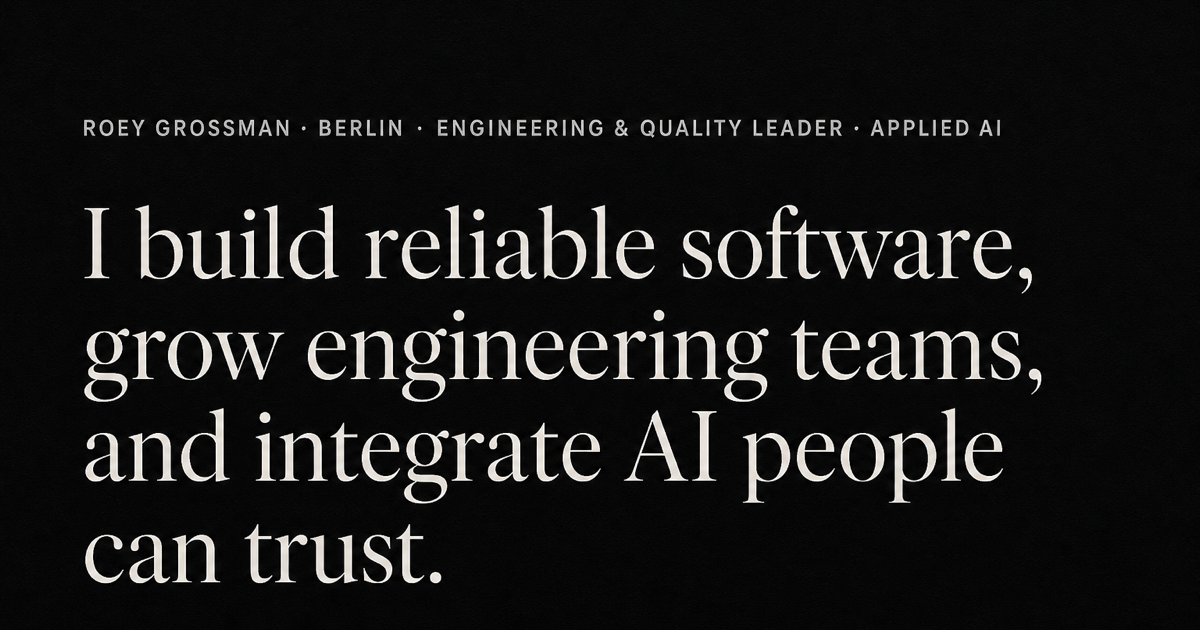
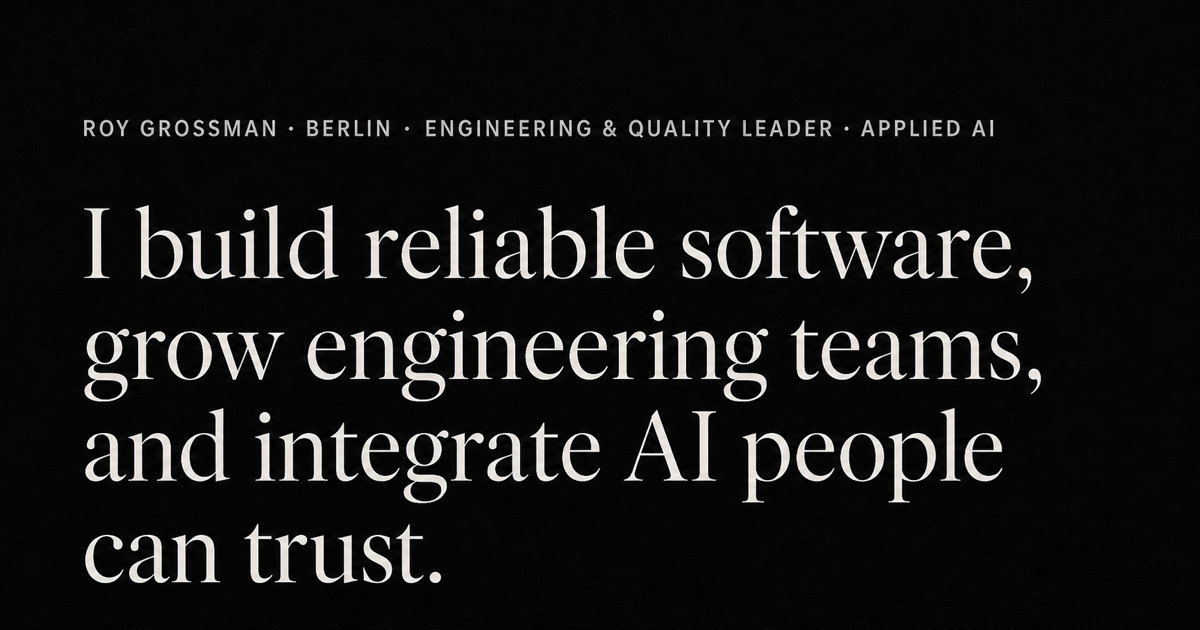
change: update legal name
- change to the legal name
- add personal email

diff --git a/src/Modals.jsx b/src/Modals.jsx
@@ -17,14 +17,14 @@ export default function Modals({ activeModal, setActiveModal, language }) {
                         language === 'en' ? (
                             <>
                                 <p><strong className="text-zinc-900 dark:text-zinc-50">Information according to § 5 DDG</strong></p>
-                                <p>{contactInfo.name}<br/>{contactInfo.street}<br/>{contactInfo.zipCity}<br/>Germany</p>
+                                <p>{contactInfo.legalName}<br/>{contactInfo.street}<br/>{contactInfo.zipCity}<br/>Germany</p>
                                 <p><strong className="text-zinc-900 dark:text-zinc-50">Contact</strong></p>
                                 <p>Phone: {contactInfo.phone}<br/>Email: {contactInfo.email}</p>
                             </>
                         ) : (
                             <>
                                 <p><strong className="text-zinc-900 dark:text-zinc-50">Angaben gemäß § 5 DDG</strong></p>
-                                <p>{contactInfo.name}<br/>{contactInfo.street}<br/>{contactInfo.zipCity}<br/>Deutschland</p>
+                                <p>{contactInfo.legalName}<br/>{contactInfo.street}<br/>{contactInfo.zipCity}<br/>Deutschland</p>
                                 <p><strong className="text-zinc-900 dark:text-zinc-50">Kontakt</strong></p>
                                 <p>Telefon: {contactInfo.phone}<br/>E-Mail: {contactInfo.email}</p>
                             </>
@@ -35,7 +35,7 @@ export default function Modals({ activeModal, setActiveModal, language }) {
                                 <h3 className="font-medium text-lg mt-6 mb-2 text-zinc-900 dark:text-zinc-50">1. Privacy at a Glance</h3>
                                 <p>This website does not collect any personal data through trackers, analytics tools, or cookies. It is purely for the provision of information.</p>
                                 <h3 className="font-medium text-lg mt-6 mb-2 text-zinc-900 dark:text-zinc-50">2. Data Controller</h3>
-                                <p>{contactInfo.name}<br/>{contactInfo.street}<br/>{contactInfo.zipCity}<br/>{contactInfo.email}</p>
+                                <p>{contactInfo.legalName}<br/>{contactInfo.street}<br/>{contactInfo.zipCity}<br/>{contactInfo.email}</p>
                                 <h3 className="font-medium text-lg mt-6 mb-2 text-zinc-900 dark:text-zinc-50">3. Website Provision and Hosting</h3>
                                 <p>We host our website on Cloudflare Pages. The provider is Cloudflare, Inc., 101 Townsend St, San Francisco, CA 94107, USA (hereinafter: Cloudflare).</p>
                                 <p>When you visit our website, Cloudflare automatically logs server-side connection data as our hosting provider. This is technically necessary to deliver the website and guarantee its security.</p>
@@ -45,7 +45,7 @@ export default function Modals({ activeModal, setActiveModal, language }) {
                                 <h3 className="font-medium text-lg mt-6 mb-2 text-zinc-900 dark:text-zinc-50">1. Datenschutz auf einen Blick</h3>
                                 <p>Diese Website erfasst keine personenbezogenen Daten durch Tracker, Analyse-Tools oder Cookies. Sie dient rein der Informationsbereitstellung.</p>
                                 <h3 className="font-medium text-lg mt-6 mb-2 text-zinc-900 dark:text-zinc-50">2. Verantwortliche Stelle</h3>
-                                <p>{contactInfo.name}<br/>{contactInfo.street}<br/>{contactInfo.zipCity}<br/>{contactInfo.email}</p>
+                                <p>{contactInfo.legalName}<br/>{contactInfo.street}<br/>{contactInfo.zipCity}<br/>{contactInfo.email}</p>
                                 <h3 className="font-medium text-lg mt-6 mb-2 text-zinc-900 dark:text-zinc-50">3. Bereitstellung der Website und Hosting</h3>
                                 <p>Wir hosten unsere Website bei Cloudflare Pages. Anbieter ist die Cloudflare, Inc. Wenn Sie unsere Website besuchen, erfasst Cloudflare als unser Hostinganbieter serverseitig Verbindungsdaten.</p>
                             </>

diff --git a/index.html b/index.html
@@ -5,25 +5,25 @@
     <link rel="icon" type="image/svg+xml" href="/favicon.svg" />
     <meta name="viewport" content="width=device-width, initial-scale=1.0" />
     <meta name="robots" content="index, follow" />
-    <meta name="author" content="Roey Grossman" />
+    <meta name="author" content="Roy Grossman" />
     <link rel="canonical" href="https://grossman.engineering/" />
 
     <!-- Primary Meta Tags -->
-    <title>Roey Grossman | Engineering &amp; Quality Leader · Applied AI</title>
-    <meta name="title" content="Roey Grossman | Engineering &amp; Quality Leader · Applied AI" />
+    <title>Roy Grossman | Engineering &amp; Quality Leader · Applied AI</title>
+    <meta name="title" content="Roy Grossman | Engineering &amp; Quality Leader · Applied AI" />
     <meta name="description" content="Engineering and quality leader with 15+ years across software delivery, automation, and people leadership, now applying production discipline to AI." />
 
     <!-- Open Graph / Facebook / LinkedIn -->
     <meta property="og:type" content="website" />
     <meta property="og:url" content="https://grossman.engineering/" />
-    <meta property="og:title" content="Roey Grossman | Engineering &amp; Quality Leader · Applied AI" />
+    <meta property="og:title" content="Roy Grossman | Engineering &amp; Quality Leader · Applied AI" />
     <meta property="og:description" content="Engineering and quality leader with 15+ years across software delivery, automation, and people leadership, now applying production discipline to AI." />
     <meta property="og:image" content="https://grossman.engineering/og-image.png" />
 
     <!-- Twitter -->
     <meta name="twitter:card" content="summary_large_image" />
     <meta name="twitter:url" content="https://grossman.engineering/" />
-    <meta name="twitter:title" content="Roey Grossman | Engineering &amp; Quality Leader · Applied AI" />
+    <meta name="twitter:title" content="Roy Grossman | Engineering &amp; Quality Leader · Applied AI" />
     <meta name="twitter:description" content="Engineering and quality leader with 15+ years across software delivery, automation, and people leadership, now applying production discipline to AI." />
     <meta name="twitter:image" content="https://grossman.engineering/og-image.png" />
 
@@ -32,7 +32,7 @@
     {
       "@context": "https://schema.org",
       "@type": "Person",
-      "name": "Roey Grossman",
+      "name": "Roy Grossman",
       "jobTitle": "Engineering and Quality Leader",
       "url": "https://grossman.engineering/",
       "sameAs": [

diff --git a/src/App.jsx b/src/App.jsx
@@ -76,31 +76,31 @@ export default function App() {
 
     // SEO: Dynamic Title, Meta Description & Canonical URL
     useEffect(() => {
-        let title = 'Roey Grossman | Engineering & Quality Leader · Applied AI';
+        let title = 'Roy Grossman | Engineering & Quality Leader · Applied AI';
         let desc = 'Engineering and quality leader with 15+ years across software delivery, automation, and people leadership, now applying production discipline to AI.';
         let ogType = 'website';
         
         if (language === 'de') {
-            title = 'Roey Grossman | Engineering & Quality Leader · Applied AI';
+            title = 'Roy Grossman | Engineering & Quality Leader · Applied AI';
             desc = 'Engineering- und Quality-Leader mit mehr als 15 Jahren Erfahrung in Softwareentwicklung, Automatisierung und Personalführung – heute mit Fokus auf Applied AI.';
         }
 
         if (routePath === '/archive') {
             title = language === 'en'
-                ? 'Impact Archive | Roey Grossman'
-                : 'Projektarchiv | Roey Grossman';
+                ? 'Impact Archive | Roy Grossman'
+                : 'Projektarchiv | Roy Grossman';
             desc = language === 'en'
-                ? 'Earlier engineering leadership work and technical experiments by Roey Grossman.'
-                : 'Frühere Engineering-Führungsarbeit und technische Experimente von Roey Grossman.';
+                ? 'Earlier engineering leadership work and technical experiments by Roy Grossman.'
+                : 'Frühere Engineering-Führungsarbeit und technische Experimente von Roy Grossman.';
         } else if (routePath.startsWith('/project/')) {
             const key = routePath.replace('/project/', '');
             if (projectData[key]) {
-                title = `${localize(projectData[key].title, language)} | Roey Grossman`;
+                title = `${localize(projectData[key].title, language)} | Roy Grossman`;
                 desc = localize(projectData[key].summary, language);
                 ogType = 'article';
             }
         } else if (routePath !== '/') {
-            title = 'Page Not Found | Roey Grossman';
+            title = 'Page Not Found | Roy Grossman';
         }
         
         document.title = title;

diff --git a/src/HeroSection.jsx b/src/HeroSection.jsx
@@ -1,6 +1,6 @@
 export default function HeroSection({ language }) {
     const copy = language === 'en' ? {
-        eyebrow: 'Roey Grossman · Berlin · Engineering & Quality Leader · Applied AI',
+        eyebrow: 'Roy Grossman · Berlin · Engineering & Quality Leader · Applied AI',
         headline: 'I build reliable software, grow engineering teams, and integrate AI people can trust.',
         introduction: 'Engineering and quality leader with 15+ years across software delivery, automation, and people leadership. I’ve scaled teams, shortened release cycles, and supported products used at significant scale. Now I’m deepening my AI engineering practice through formal study and hands-on product work, including Demo Radar.',
         work: 'View selected work',
@@ -13,7 +13,7 @@ export default function HeroSection({ language }) {
             ['Developer platform scale', '1B monthly downloads']
         ]
     } : {
-        eyebrow: 'Roey Grossman · Berlin · Engineering- & Quality-Leader · Applied AI',
+        eyebrow: 'Roy Grossman · Berlin · Engineering- & Quality-Leader · Applied AI',
         headline: [
             'Ich entwickle zuverlässige Software,',
             'stärke Engineering-Teams',

diff --git a/src/Footer.jsx b/src/Footer.jsx
@@ -4,7 +4,7 @@ export default function Footer({ currentYear, setActiveModal, language, navigate
     return (
         <footer className="px-6 py-8 md:px-12 lg:px-24 border-t border-stone-200 dark:border-zinc-800 text-xs text-zinc-600 dark:text-zinc-300 flex flex-col md:flex-row justify-between items-center gap-4 bg-stone-50 dark:bg-zinc-950 mt-auto">
             <div>
-                &copy; {currentYear} Roey Grossman. {language === 'en' ? 'All rights reserved.' : 'Alle Rechte vorbehalten.'}
+                &copy; {currentYear} Roy Grossman. {language === 'en' ? 'All rights reserved.' : 'Alle Rechte vorbehalten.'}
             </div>
             <div className="flex flex-wrap justify-center gap-4 items-center">
                 <a href={`/${language}/archive`} onClick={(event) => navigate('/archive', event)} className="hover:text-zinc-900 dark:hover:text-zinc-50 transition-colors">

diff --git a/src/Navigation.jsx b/src/Navigation.jsx
@@ -3,7 +3,7 @@ export default function Navigation({ view, navigate, language, toggleLanguage, i
     return (
         <nav className="fixed top-0 w-full z-40 px-6 py-5 md:px-12 lg:px-24 border-b border-stone-200 dark:border-zinc-800 backdrop-blur-md bg-white/80 dark:bg-zinc-950/80 flex justify-between items-center">
             <a href={`/${language}`} onClick={(e) => navigate('/', e)} className="font-serif text-xl tracking-tight font-medium hover:opacity-80 transition-opacity">
-                Roey Grossman
+                Roy Grossman
             </a>
             <div className="flex items-center gap-6">
                 {view === 'main' && (

diff --git a/src/contactInfo.js b/src/contactInfo.js
@@ -1,9 +1,10 @@
 export const contactInfo = {
-    name: 'Roey Grossman',
+    name: 'Roy Grossman',
+    legalName: 'Roey Grossman',
     street: 'Würzburger Str.',
     zipCity: '10789 Berlin',
     phone: '+49 163 704 9876',
-    email: 'contact@grossman.engineering',
+    email: 'roy@grossman.engineering',
     github: 'https://github.com/roygrssmn',
     linkedin: 'https://linkedin.com/in/roygrssmn'
 };

diff --git a/README.md b/README.md
@@ -1,6 +1,6 @@
 # Grossman Engineering
 
-Personal portfolio website for Roey Grossman at [grossman.engineering](https://grossman.engineering). Built with React 19, Vite, and Tailwind CSS v4. The site features a clean, responsive design, dark mode, English/German bilingual support, and a custom lightweight single-page routing system optimized for Cloudflare Workers.
+Personal portfolio website for Roy Grossman at [grossman.engineering](https://grossman.engineering). Built with React 19, Vite, and Tailwind CSS v4. The site features a clean, responsive design, dark mode, English/German bilingual support, and a custom lightweight single-page routing system optimized for Cloudflare Workers.
 
 ## 🚀 How to Run
 
